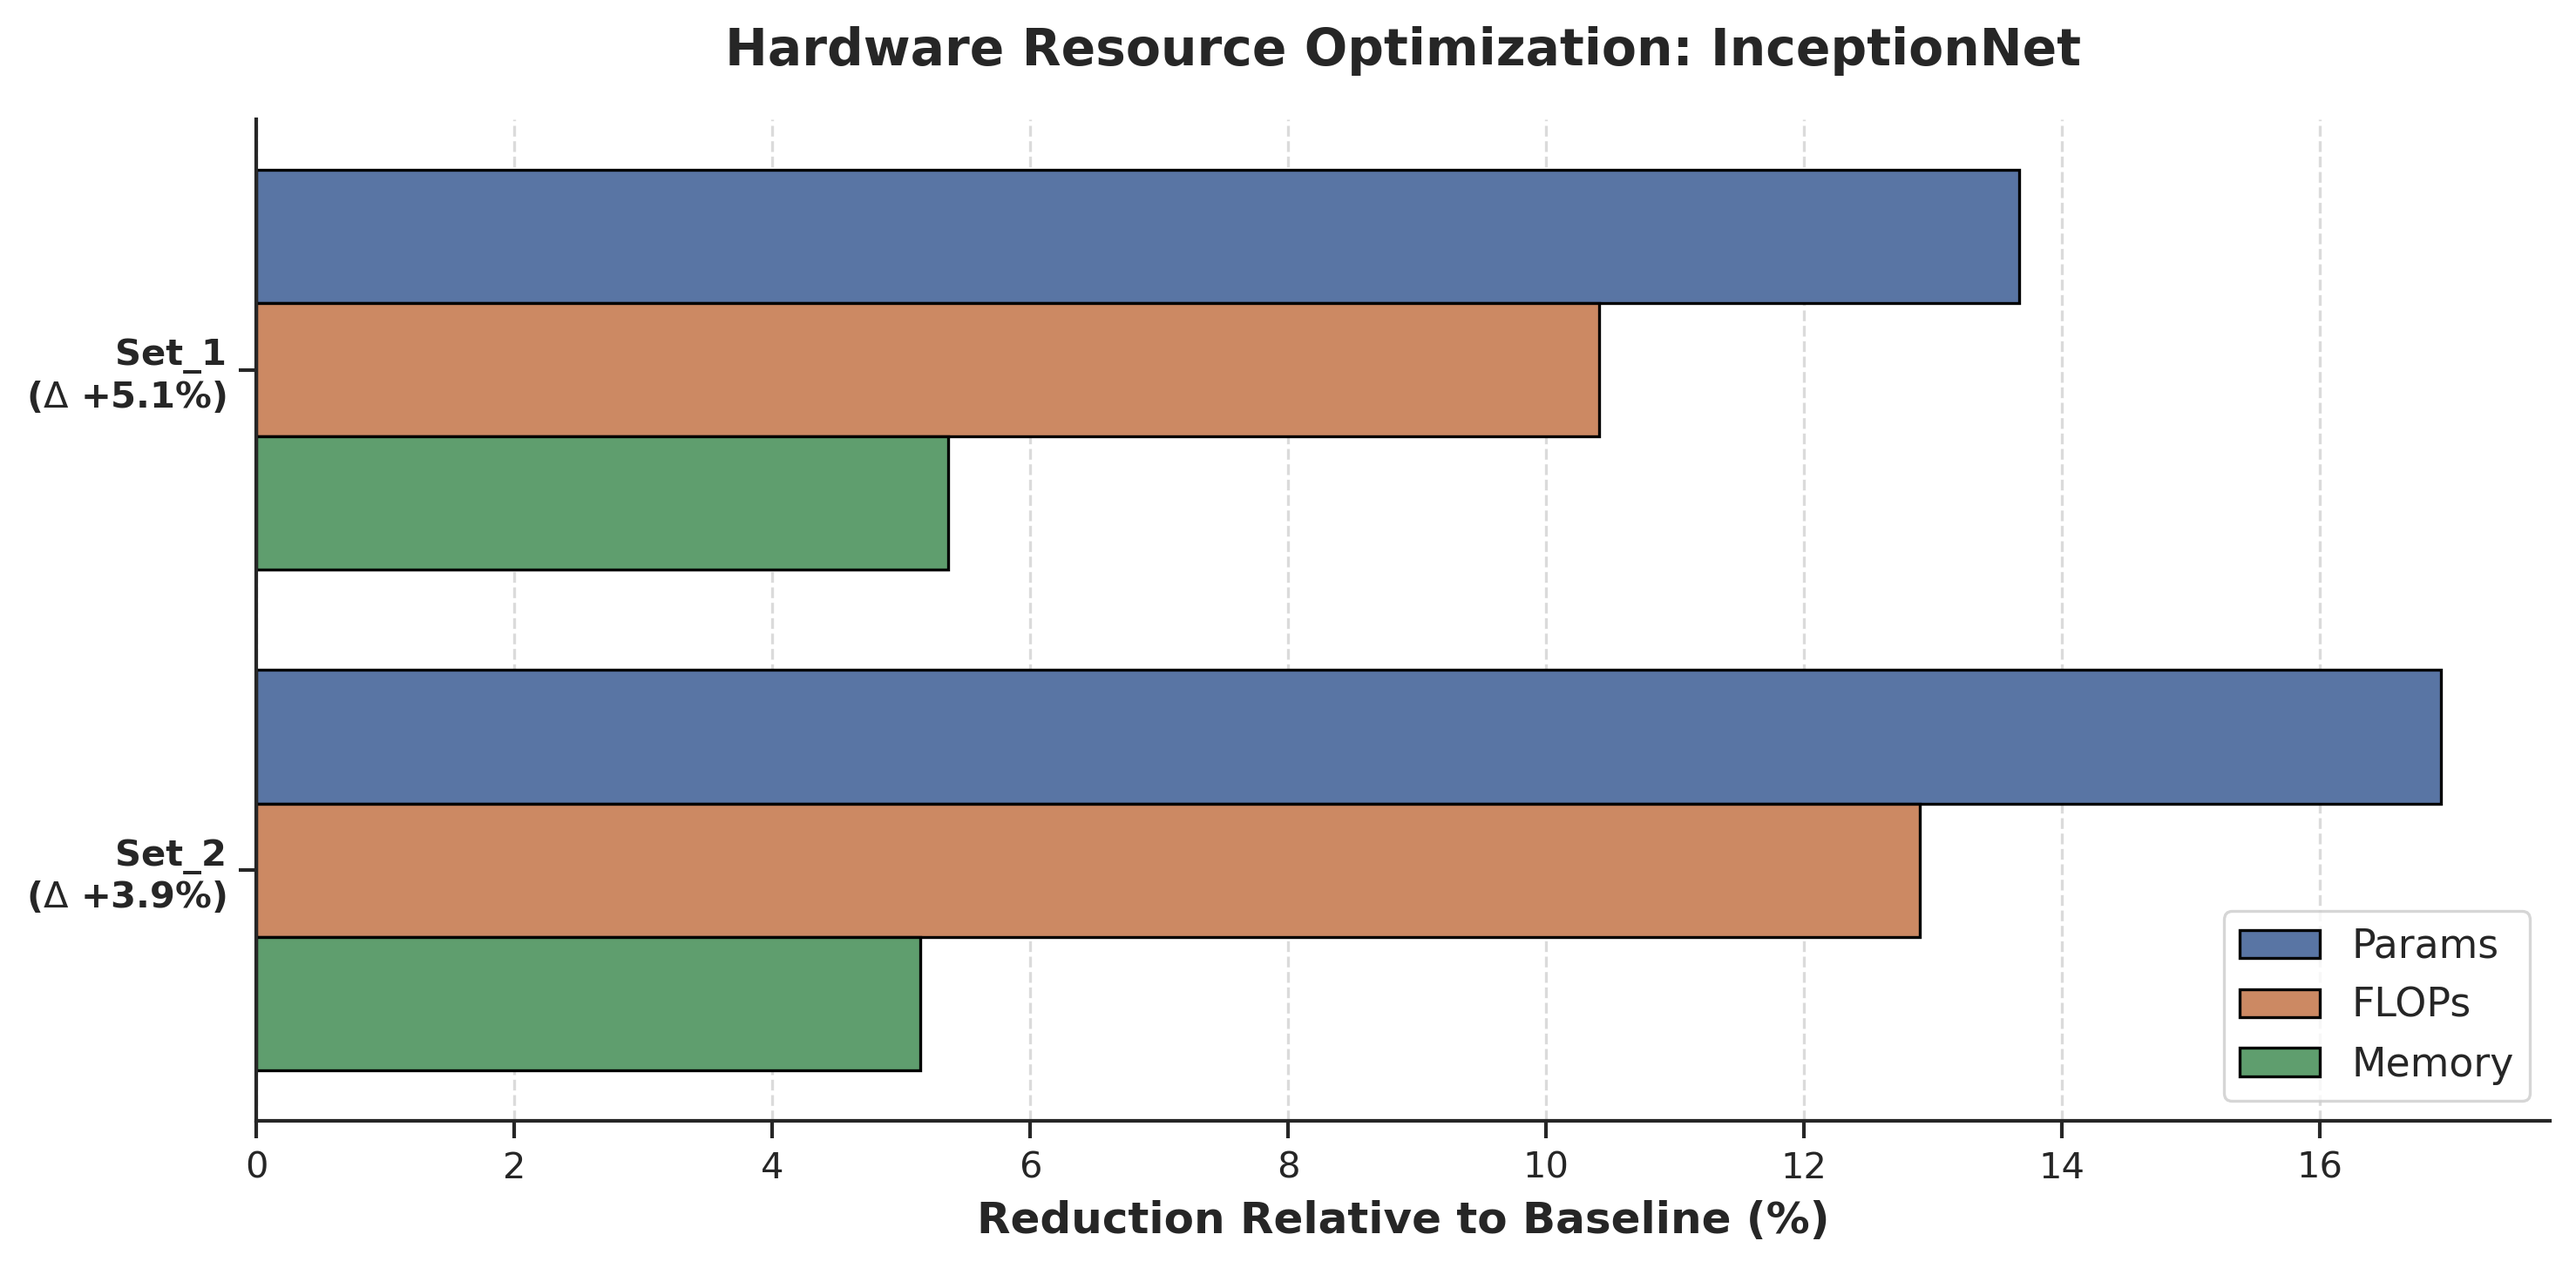
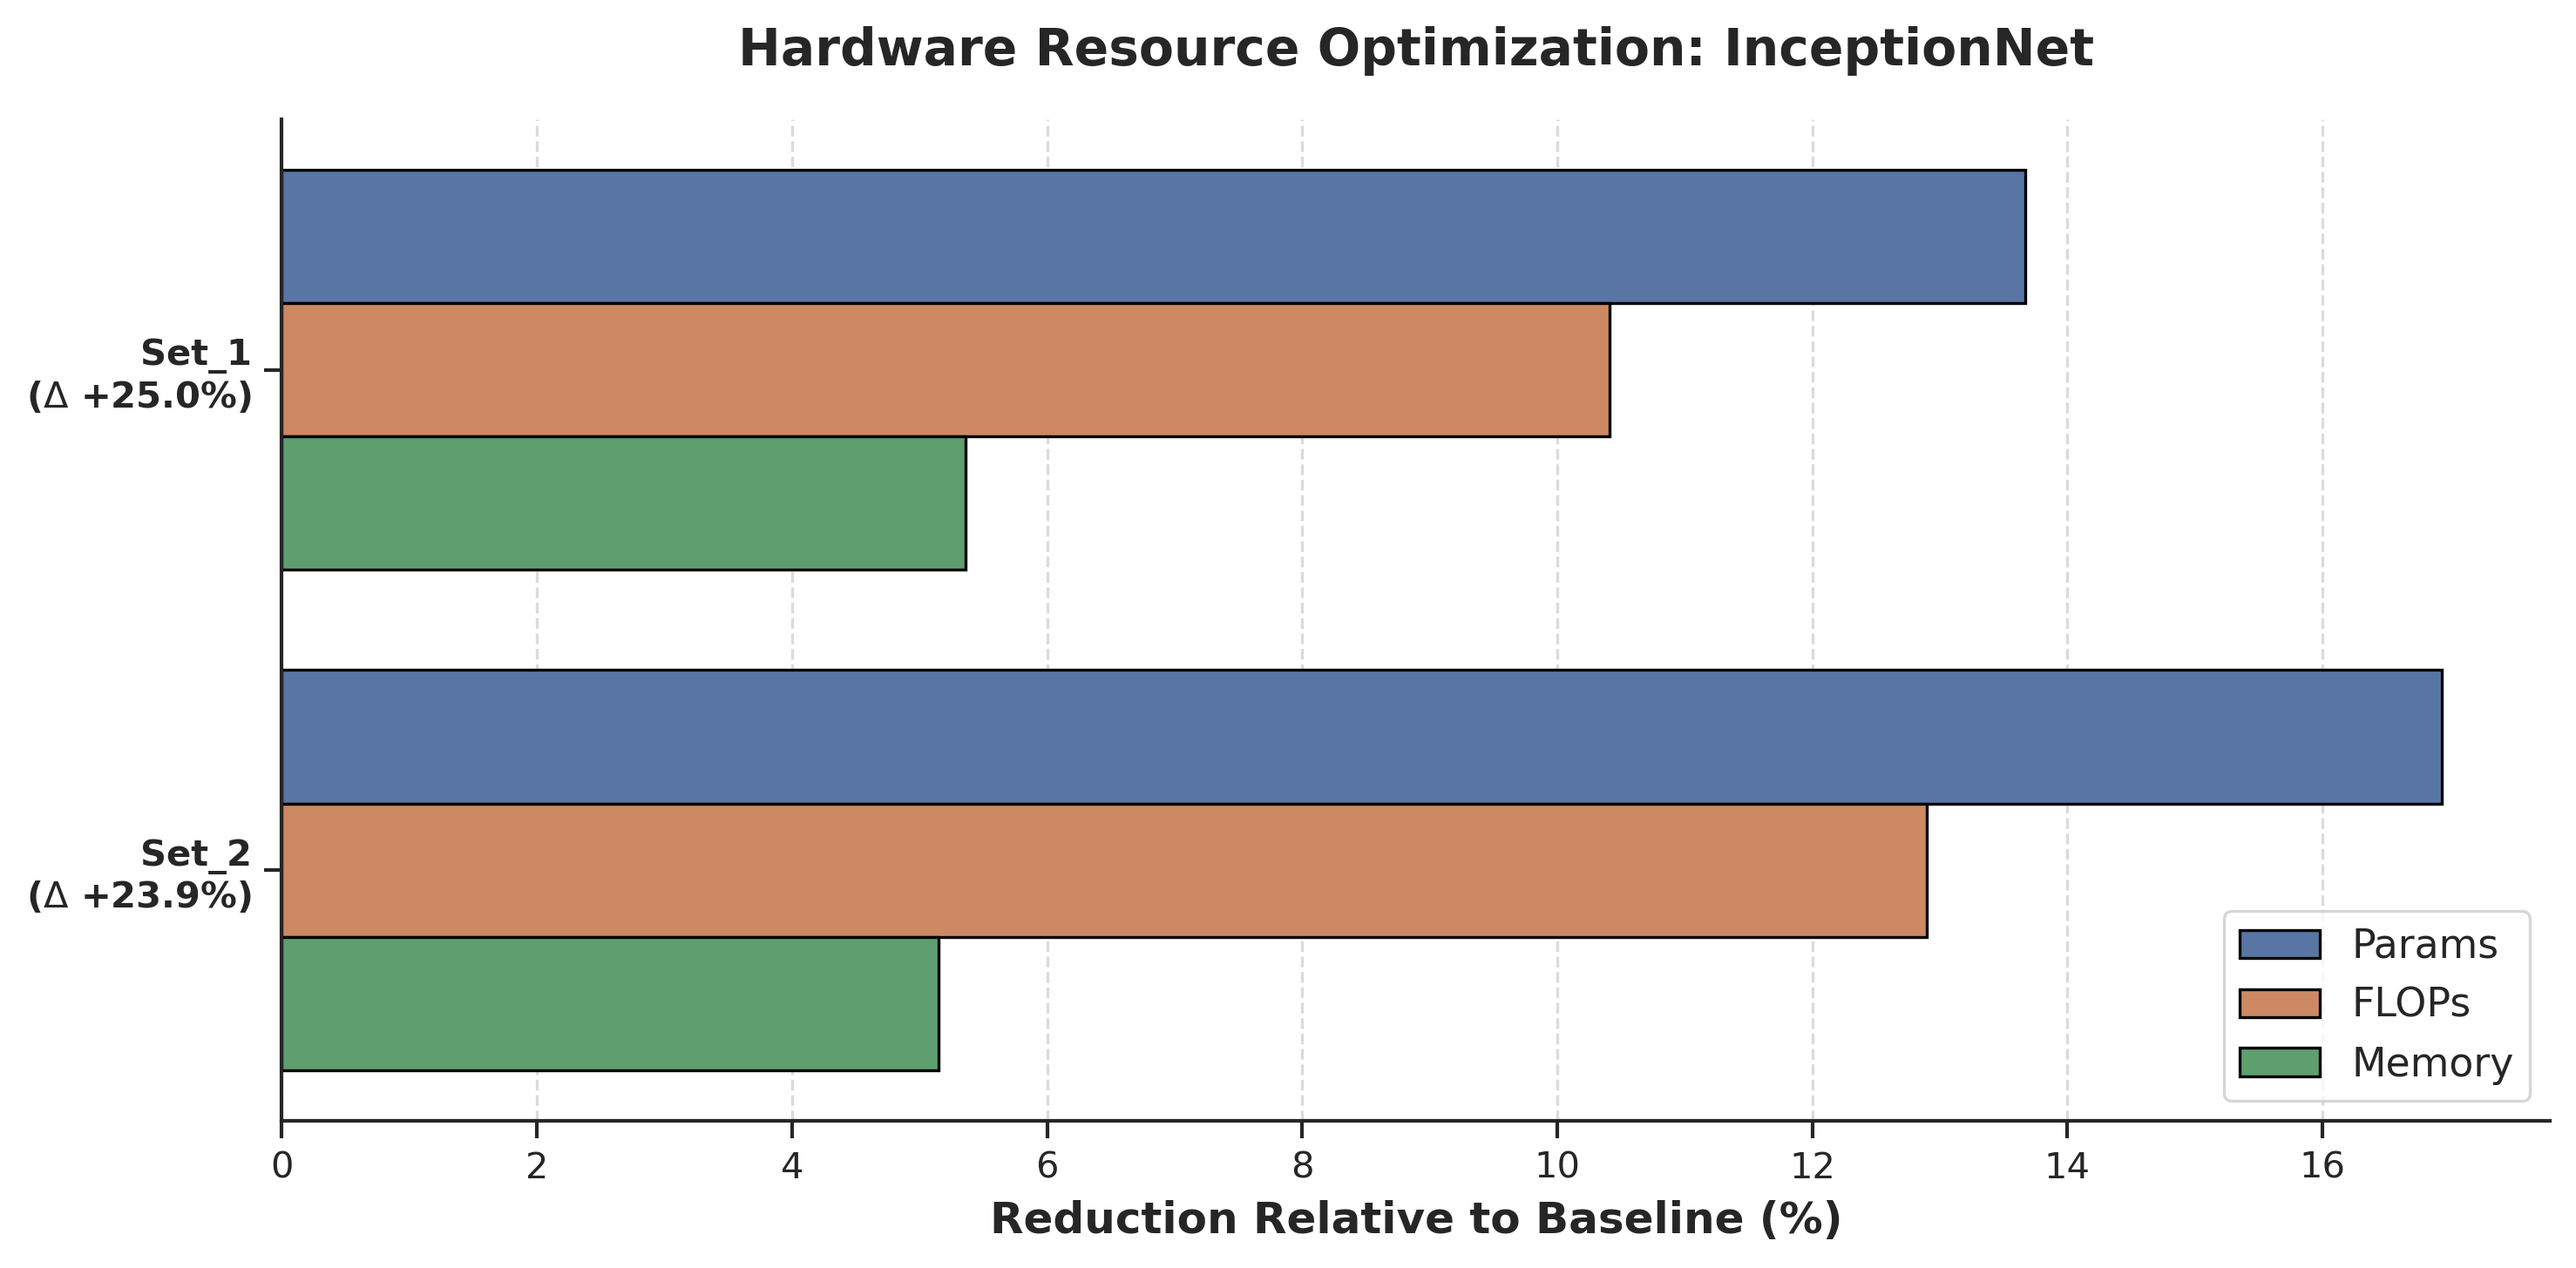
update

diff --git a/manuscript/Tranfer/figures/hardware_efficiency/RegNetX_400MF_tinyimagenet_all_candidates.tex b/manuscript/Tranfer/figures/hardware_efficiency/RegNetX_400MF_tinyimagenet_all_candidates.tex
@@ -2,11 +2,11 @@
 \toprule
 Candidate Block & Delta Acc (%) & Params Red. (%) & FLOPs Red. (%) & Memory Red. (%) \\
 \midrule
-Set_2 & 3.89 & 0.48 & 1.11 & 7.00 \\
-Set_0 & 3.25 & 0.48 & 1.11 & 7.00 \\
-Set_3 & 2.19 & 0.48 & 1.11 & 7.00 \\
-Set_8 & 1.91 & 1.14 & 0.67 & 7.00 \\
-Set_4 & 0.38 & 0.48 & 1.11 & 7.00 \\
-Set_1 & -0.00 & 0.48 & 1.11 & 7.00 \\
+Set_2 & 25.77 & 0.48 & 1.11 & 7.00 \\
+Set_0 & 25.13 & 0.48 & 1.11 & 7.00 \\
+Set_3 & 24.07 & 0.48 & 1.11 & 7.00 \\
+Set_8 & 23.79 & 1.14 & 0.67 & 7.00 \\
+Set_4 & 22.26 & 0.48 & 1.11 & 7.00 \\
+Set_1 & 21.88 & 0.48 & 1.11 & 7.00 \\
 \bottomrule
 \end{tabular}

diff --git a/manuscript/Tranfer/figures/hardware_efficiency/VGG16_tinyimagenet_all_candidates.tex b/manuscript/Tranfer/figures/hardware_efficiency/VGG16_tinyimagenet_all_candidates.tex
@@ -2,8 +2,8 @@
 \toprule
 Candidate Block & Delta Acc (%) & Params Red. (%) & FLOPs Red. (%) & Memory Red. (%) \\
 \midrule
-Dynamic_Region_All_Combined & 14.78 & 23.10 & 42.57 & 6.87 \\
-Set_1 & 7.09 & 16.74 & 8.51 & 0.71 \\
-Set_0 & 4.27 & 6.36 & 34.05 & 6.16 \\
+Dynamic_Region_All_Combined & 28.67 & 23.10 & 42.57 & 6.87 \\
+Set_1 & 20.99 & 16.74 & 8.51 & 0.71 \\
+Set_0 & 18.17 & 6.36 & 34.05 & 6.16 \\
 \bottomrule
 \end{tabular}

diff --git a/manuscript/Tranfer/figures/hardware_efficiency/InceptionNet_tinyimagenet_all_candidates.tex b/manuscript/Tranfer/figures/hardware_efficiency/InceptionNet_tinyimagenet_all_candidates.tex
@@ -2,7 +2,7 @@
 \toprule
 Candidate Block & Delta Acc (%) & Params Red. (%) & FLOPs Red. (%) & Memory Red. (%) \\
 \midrule
-Set_1 & 5.09 & 13.67 & 10.41 & 5.36 \\
-Set_2 & 3.95 & 16.94 & 12.90 & 5.15 \\
+Set_1 & 25.04 & 13.67 & 10.41 & 5.36 \\
+Set_2 & 23.90 & 16.94 & 12.90 & 5.15 \\
 \bottomrule
 \end{tabular}
